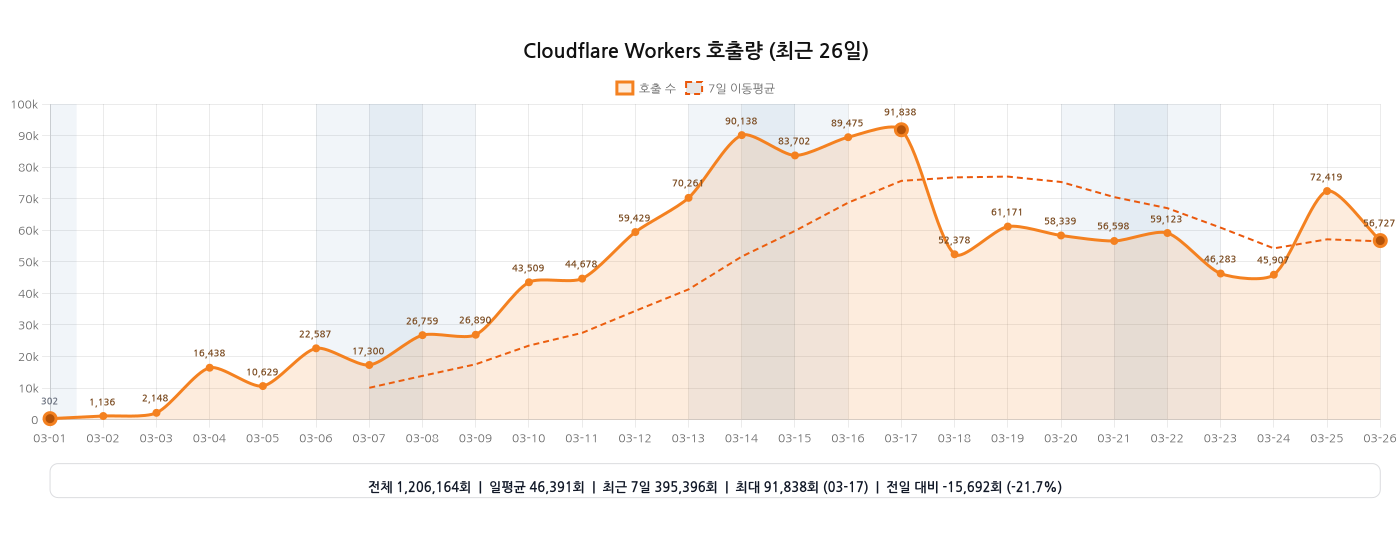
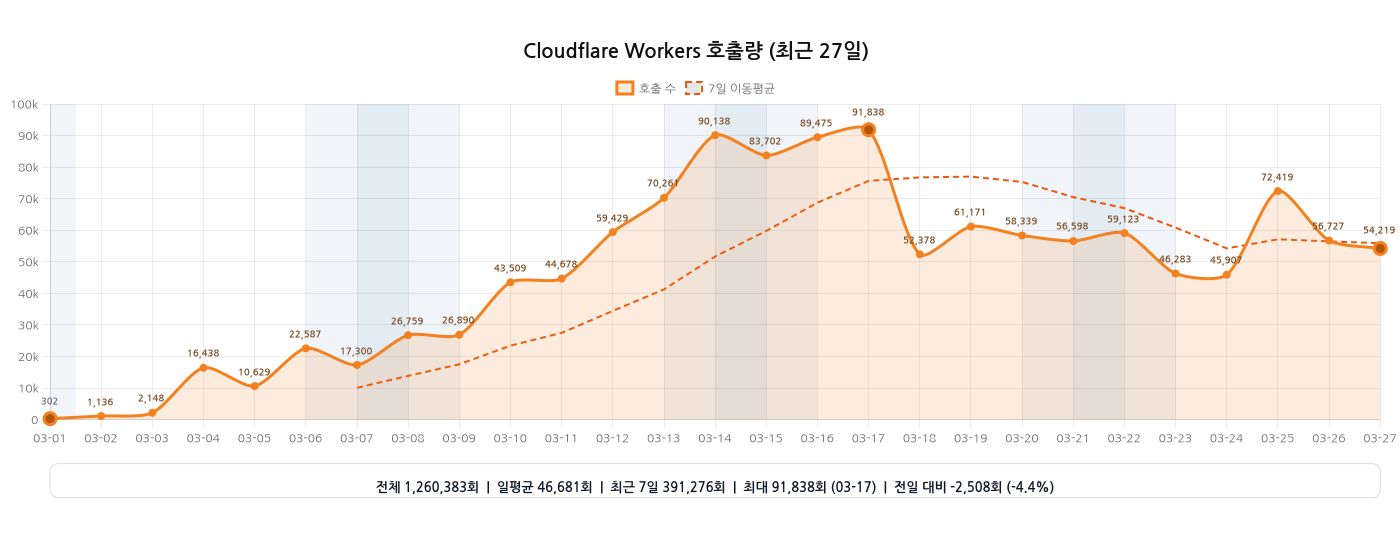
chore: 워커 호출량 그래프 자동 갱신

diff --git a/README.md b/README.md
@@ -18,11 +18,11 @@
 [![Coverage](https://github.com/hmmhmmhm/daiso-mcp/actions/workflows/coverage.yml/badge.svg?branch=main)](https://github.com/hmmhmmhm/daiso-mcp/actions/workflows/coverage.yml)
 
 <!-- WORKERS_INVOCATIONS_CHART:START -->
-<h3>Cloudflare Workers 호출량 (2026-03-01 ~ 2026-03-26, 26일)</h3>
+<h3>Cloudflare Workers 호출량 (2026-03-01 ~ 2026-03-27, 27일)</h3>
 
-<img src="./assets/analytics/workers-invocations.png?v=2026-03-26T15:50:00.872Z" alt="Cloudflare Workers 호출량 그래프 (2026-03-01 ~ 2026-03-26)" width="100%">
+<img src="./assets/analytics/workers-invocations.png?v=2026-03-27T15:38:51.568Z" alt="Cloudflare Workers 호출량 그래프 (2026-03-01 ~ 2026-03-27)" width="100%">
 
-<sub>기준 워커: <code>daiso-mcp</code> · 마지막 갱신: 2026-03-27 00:50 KST</sub>
+<sub>기준 워커: <code>daiso-mcp</code> · 마지막 갱신: 2026-03-28 00:38 KST</sub>
 
 <!-- WORKERS_INVOCATIONS_CHART:END -->
 
